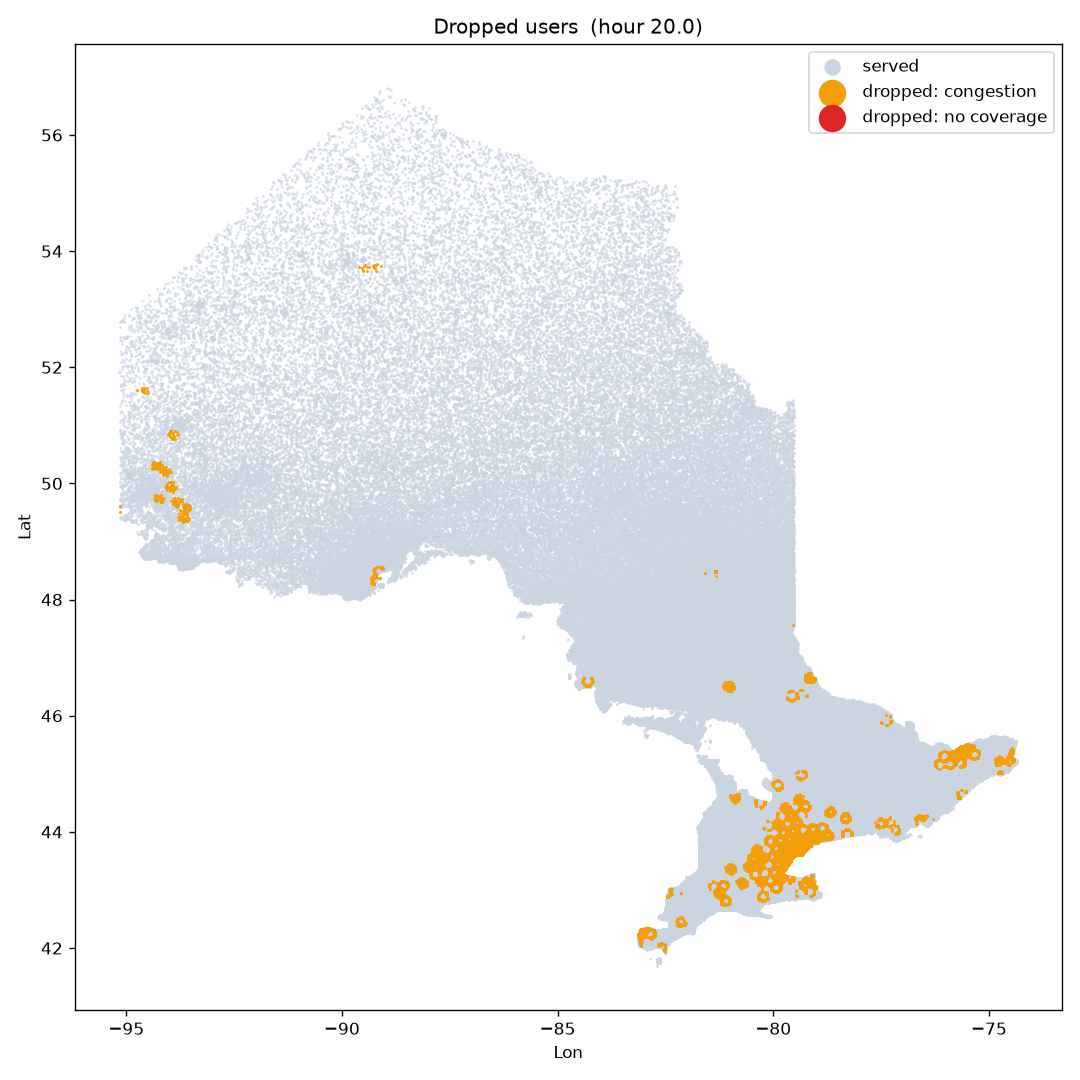
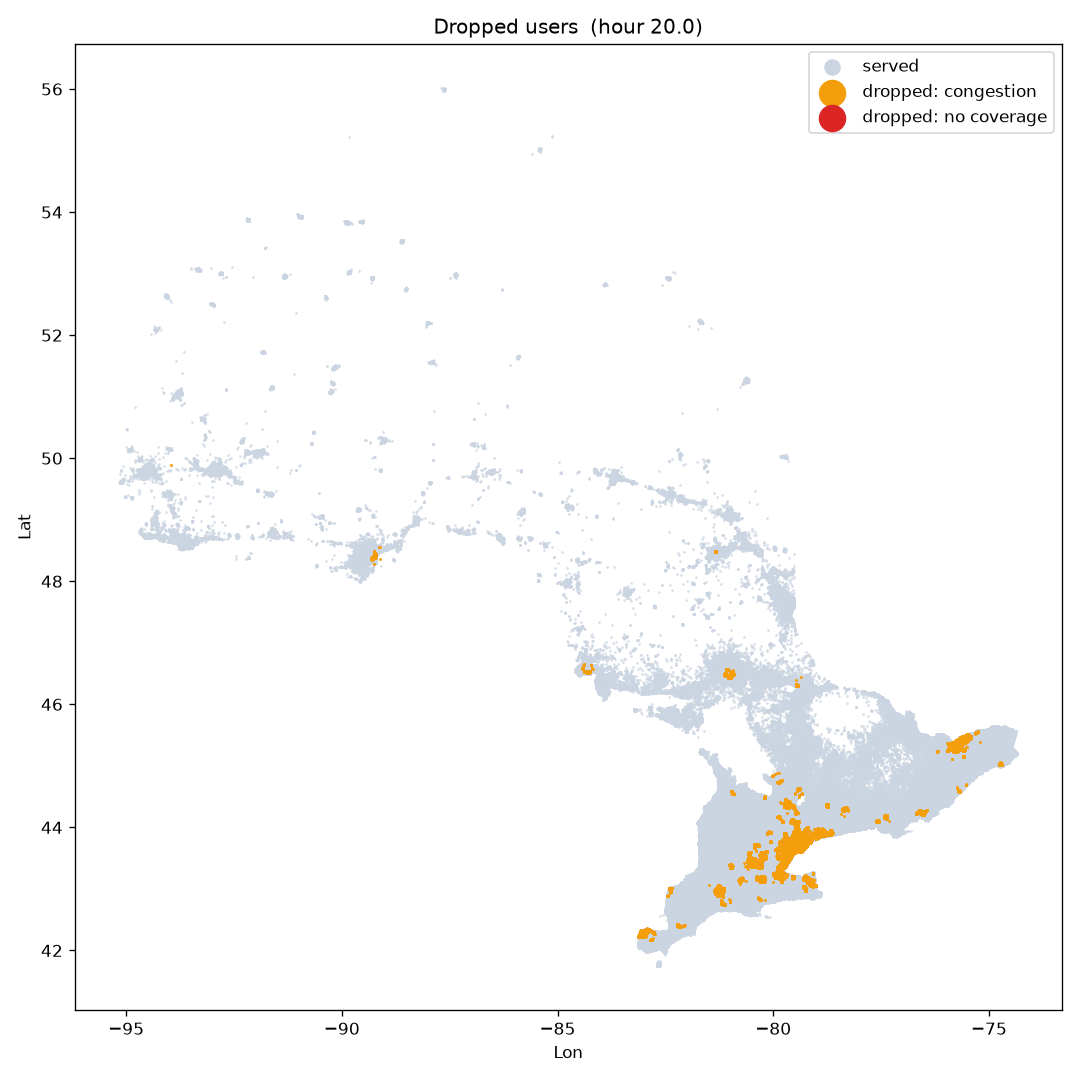
UMI 3 sectors

diff --git a/hour20_drops.html b/hour20_drops.html
@@ -1,3 +1,3 @@
 version https://git-lfs.github.com/spec/v1
-oid sha256:04fc3b916d801036ce80f09907bcc0f48200b431b1dd5753a1a39161ba177c96
-size 49624270
+oid sha256:7150b1ab54f9e74f0da71cbfe1bfdf942f98636e4bd797130c12ded25d2ad602
+size 49623964